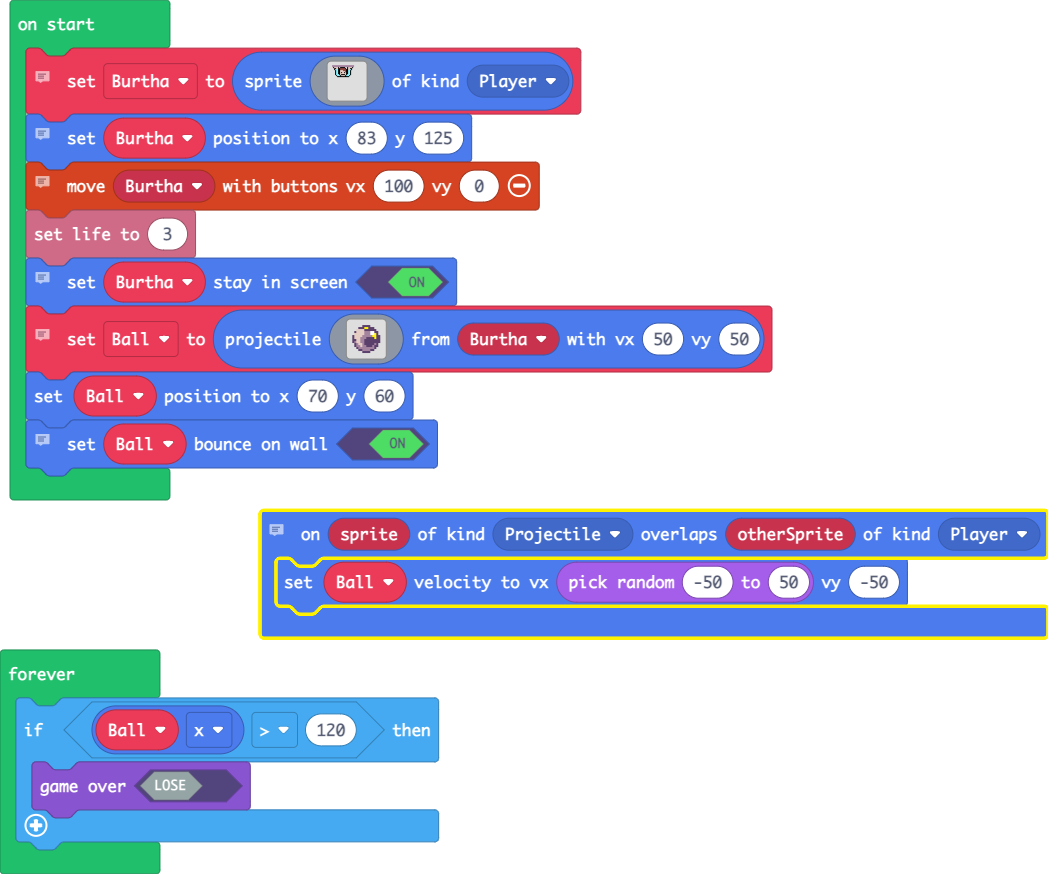
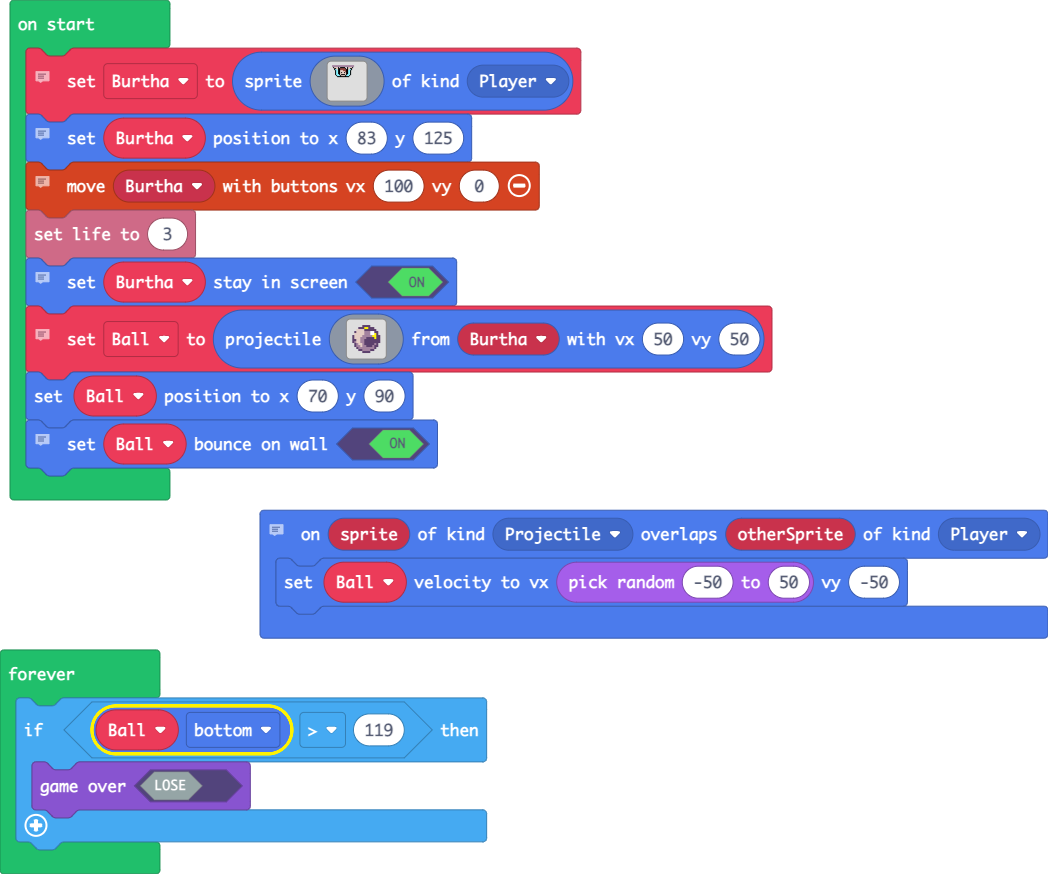
Update main.blocks, main.ts

Changed region(s): [[0.2443, 0.5561, 1.0, 0.7414], [0.0916, 0.7723, 0.4885, 0.8959], [0.3969, 0.9268, 0.4885, 0.9886]]

diff --git a/main.ts b/main.ts
@@ -31,11 +31,11 @@ Ball = sprites.createProjectileFromSprite(img`
     . . . . . . c c c c . . . . . . 
     . . . . . . . . . . . . . . . . 
     `, Burtha, 50, 50)
-Ball.setPosition(70, 60)
+Ball.setPosition(70, 90)
 // Makes it so that the ball bounces on the wall when it touches them
 Ball.setBounceOnWall(true)
 forever(function () {
-    if (Ball.x > 120) {
+    if (Ball.bottom > 119) {
         game.gameOver(false)
     }
 })
